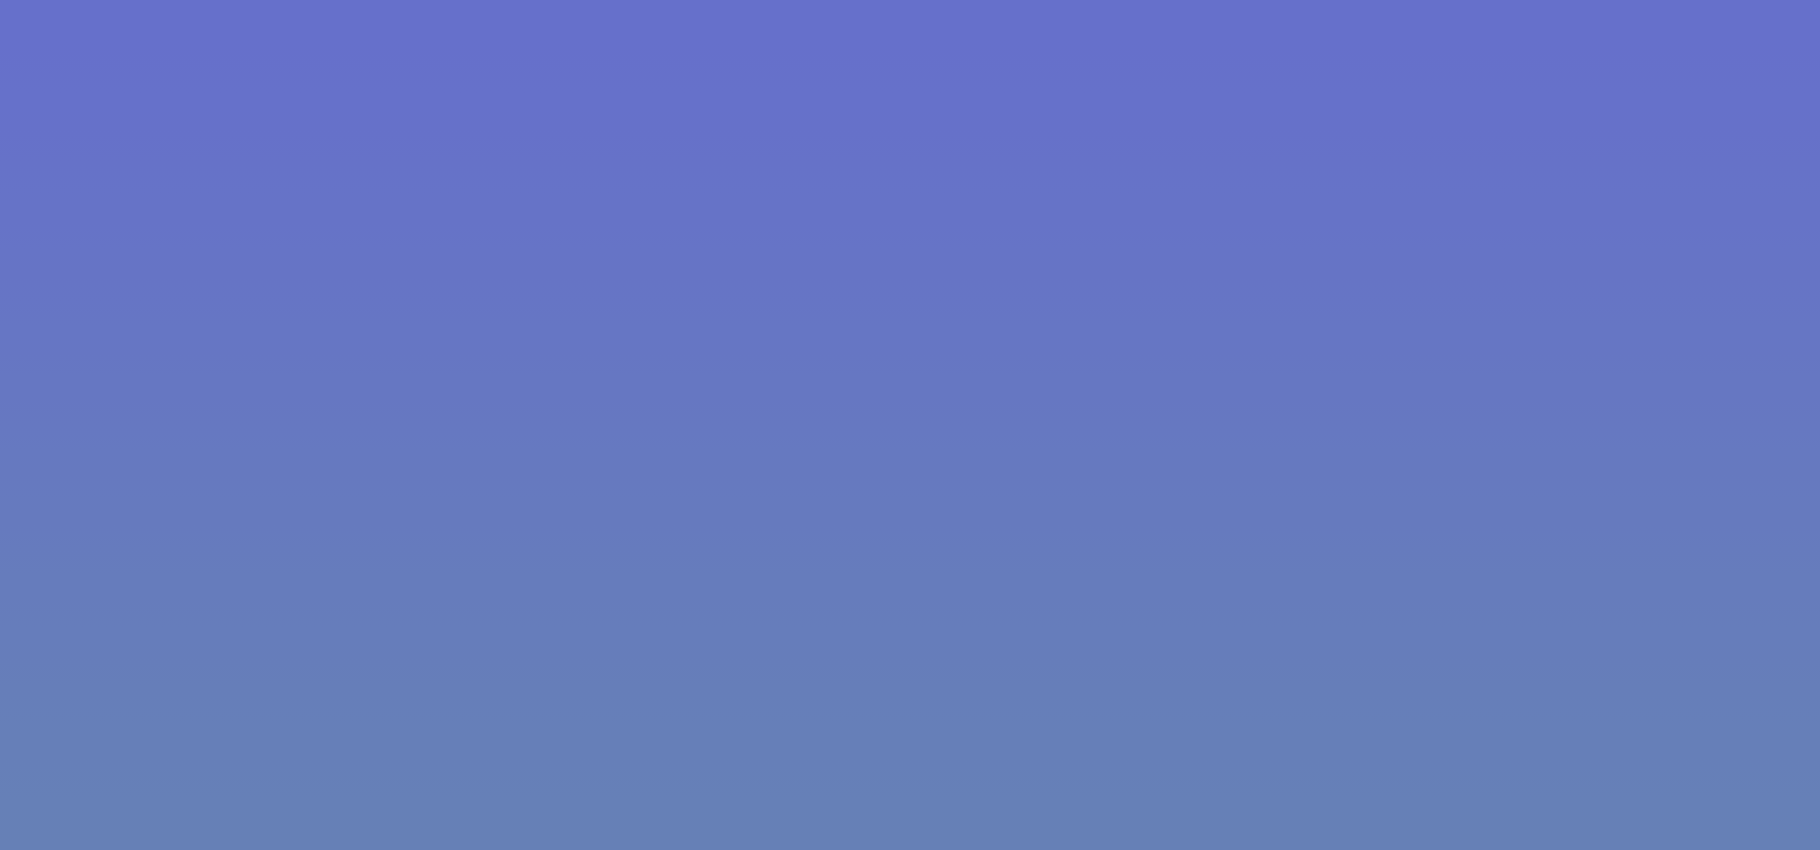
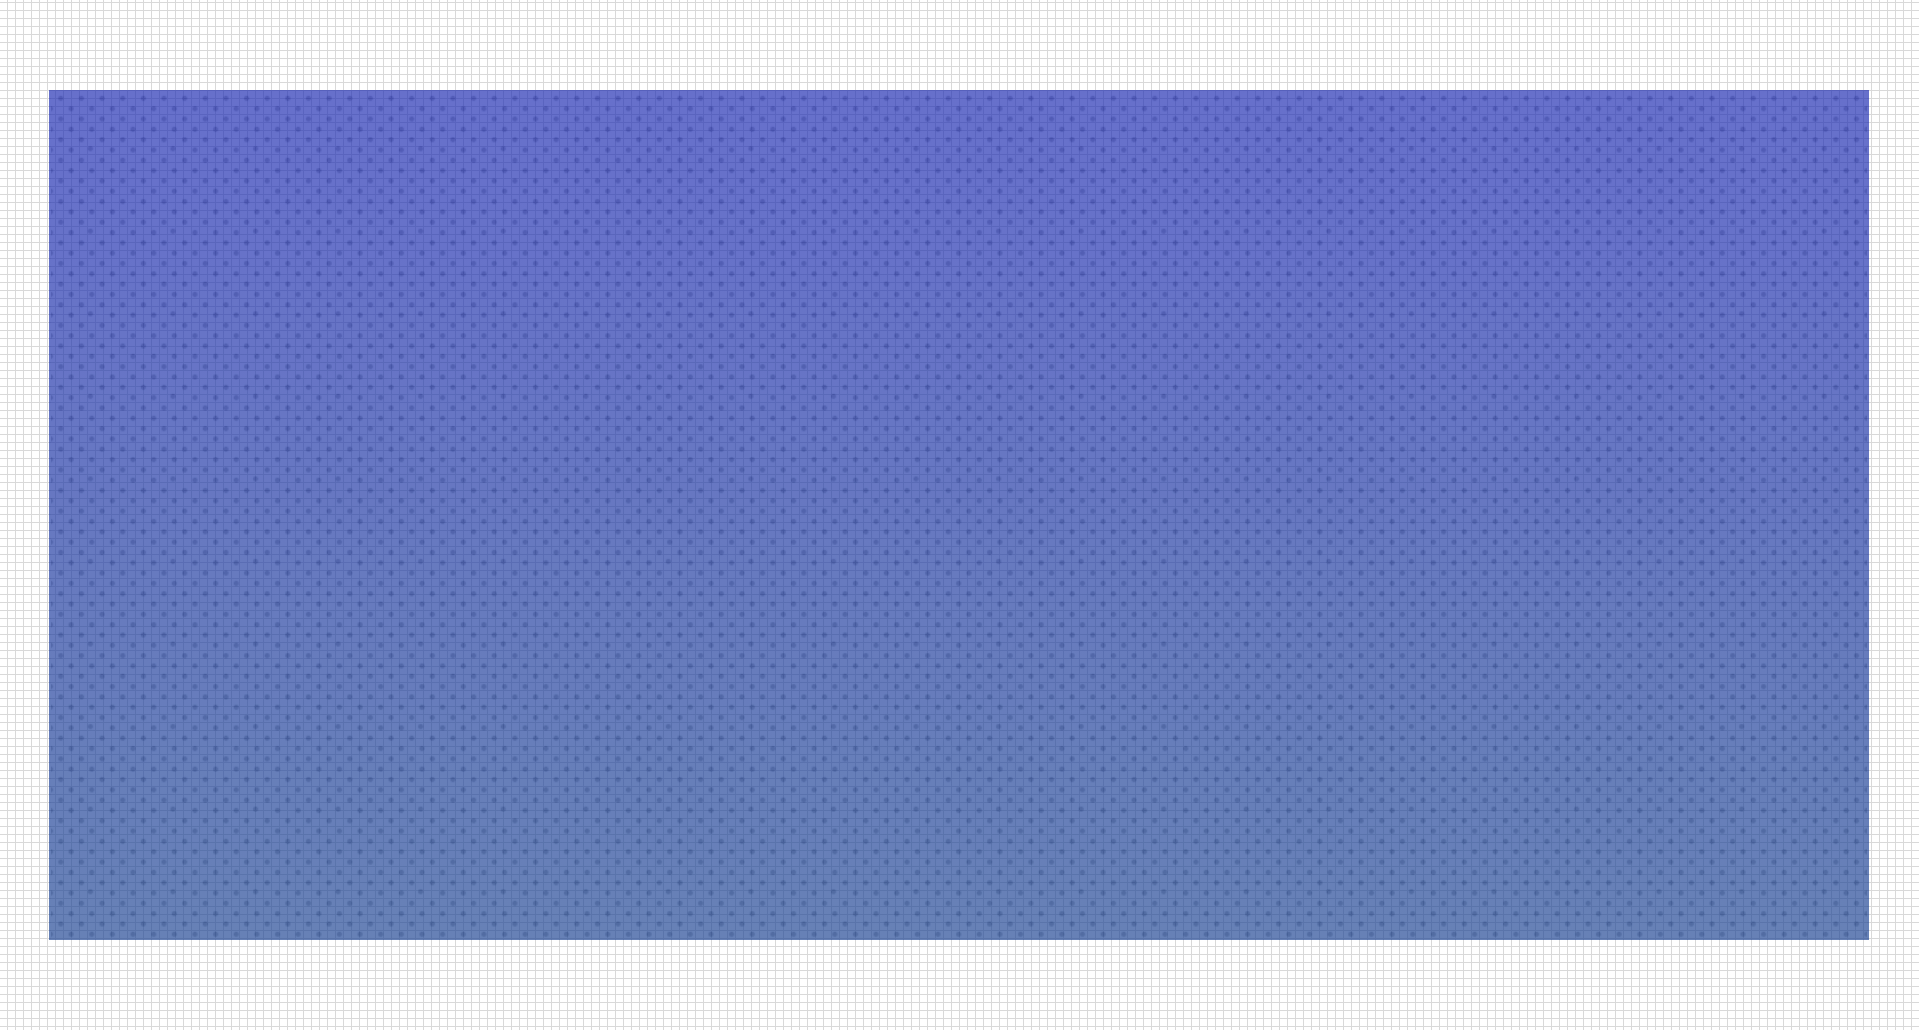
Выполнен третий блок

Changed region(s): [[0.0, 0.0, 1.0, 1.0]]

diff --git a/src/css/style.css b/src/css/style.css
@@ -1,3 +1,3 @@
-*{-webkit-box-sizing:border-box;box-sizing:border-box;margin:0;padding:0}html{font-family:"Open Sans",sans-serif;font-family:"Roboto",sans-serif}.container{position:relative;width:1844px;margin:0 auto}.header{height:135px;background-color:#e9e9e9;padding:31px 0}.header-wrap{display:-webkit-box;display:-ms-flexbox;display:flex;-webkit-box-pack:justify;-ms-flex-pack:justify;justify-content:space-between}.header_navbar_telephone{cursor:pointer}.header_navbar_btn{display:block;margin:0 auto;margin-top:15px;color:#fff;font-size:16px;font-weight:400;width:166px;height:27px;border-radius:10px;border:1px solid #fff;background-color:#343534;cursor:pointer}.menu_link{color:#091606;font-family:"Open Sans";font-size:16px;font-weight:400;text-decoration:none;padding-left:70px}ul{display:-webkit-box;display:-ms-flexbox;display:flex;margin-top:30px;list-style-type:none}.street{display:block;margin-top:30px;color:#000;font-family:"Open Sans";font-size:16px;font-weight:400}html{font-family:"Open Sans",sans-serif;font-family:"Roboto",sans-serif}.container{position:relative;width:1844px;margin:0 auto}.promo{height:941px;background:url("../img/fonimg.png") center center/cover no-repeat;padding:226px 0 399px 0}.promo-wrap{display:-webkit-box;display:-ms-flexbox;display:flex;-ms-flex-wrap:wrap;flex-wrap:wrap;-webkit-box-align:center;-ms-flex-align:center;align-items:center;-webkit-box-pack:center;-ms-flex-pack:center;justify-content:center}.promo_btn{display:block;position:absolute;margin-top:210px;right:52%;color:#fff;font-size:26px;font-weight:400;width:278px;height:50px;border-radius:5px;background-image:-webkit-gradient(linear, left bottom, left top, from(#0839d9), to(#002396));background-image:linear-gradient(to top, #0839d9 0%, #002396 100%);opacity:.7}.title{position:relative;display:block;padding-left:20px;color:#1d1d1d;font-family:Roboto;font-size:68px;font-weight:700;text-align:center;margin-right:330px}.label{display:block;margin-top:39px;color:#212020;font-family:"Open Sans";font-size:42px;font-weight:700;text-align:center;margin-right:330px}
+@import url("https://fonts.googleapis.com/css?family=Montserrat:400,600&display=swap");*{-webkit-box-sizing:border-box;box-sizing:border-box;margin:0;padding:0}html{font-family:"Open Sans",sans-serif;font-family:"Roboto",sans-serif}.container{position:relative;width:1844px;margin:0 auto}.header{height:135px;background-color:#e9e9e9;padding:31px 0}.header-wrap{display:-webkit-box;display:-ms-flexbox;display:flex;-webkit-box-pack:justify;-ms-flex-pack:justify;justify-content:space-between}.header_navbar_telephone{cursor:pointer}.header_navbar_btn{display:block;margin:0 auto;margin-top:15px;color:#fff;font-size:16px;font-weight:400;width:166px;height:27px;border-radius:10px;border:1px solid #fff;background-color:#343534;cursor:pointer}.menu_link{color:#091606;font-family:"Open Sans";font-size:16px;font-weight:400;text-decoration:none;padding-left:70px}ul{display:-webkit-box;display:-ms-flexbox;display:flex;margin-top:30px;list-style-type:none}.street{display:block;margin-top:30px;color:#000;font-family:"Open Sans";font-size:16px;font-weight:400}html{font-family:"Open Sans",sans-serif;font-family:"Roboto",sans-serif}.container{position:relative;width:1844px;margin:0 auto}.promo{height:941px;background:url("../img/fonimg.png") center center/cover no-repeat;padding:226px 0 399px 0}.promo-wrap{display:-webkit-box;display:-ms-flexbox;display:flex;-ms-flex-wrap:wrap;flex-wrap:wrap;-webkit-box-align:center;-ms-flex-align:center;align-items:center;-webkit-box-pack:center;-ms-flex-pack:center;justify-content:center}.promo_btn{display:block;position:absolute;margin-top:210px;right:52%;color:#fff;font-size:26px;font-weight:400;width:278px;height:50px;border-radius:5px;background-image:-webkit-gradient(linear, left bottom, left top, from(#0839d9), to(#002396));background-image:linear-gradient(to top, #0839d9 0%, #002396 100%);opacity:.7}.title{position:relative;display:block;padding-left:20px;color:#1d1d1d;font-family:Roboto;font-size:68px;font-weight:700;text-align:center;margin-right:330px}.label{display:block;margin-top:39px;color:#212020;font-family:"Open Sans";font-size:42px;font-weight:700;text-align:center;margin-right:330px}*{-webkit-box-sizing:border-box;box-sizing:border-box;-webkit-user-select:none;-moz-user-select:none;-ms-user-select:none;user-select:none}body{margin:0;padding:0}.advantages-block{width:100%;height:100vh;background:url("../img/fonbg.png") center center/cover no-repeat}.advantages-block-title{width:100%;height:15vh;display:-webkit-box;display:-ms-flexbox;display:flex;-webkit-box-pack:center;-ms-flex-pack:center;justify-content:center;-webkit-box-align:center;-ms-flex-align:center;align-items:center;color:#091606;font-family:Roboto;font-size:32px;font-weight:700;padding-top:100px}span{color:#091606;font-family:"Open Sans";font-size:26px;font-weight:700}.advantages-block-content{width:100%;height:85vh;display:-webkit-box;display:-ms-flexbox;display:flex;-ms-flex-wrap:wrap;flex-wrap:wrap}.advantage{width:calc(100% / 3);height:50%;display:-webkit-box;display:-ms-flexbox;display:flex;-webkit-box-orient:vertical;-webkit-box-direction:normal;-ms-flex-direction:column;flex-direction:column;-webkit-box-pack:center;-ms-flex-pack:center;justify-content:center;-webkit-box-align:center;-ms-flex-align:center;align-items:center}.icon{width:120px;height:110px;display:-webkit-box;display:-ms-flexbox;display:flex;-webkit-box-pack:center;-ms-flex-pack:center;justify-content:center;-webkit-box-align:center;-ms-flex-align:center;align-items:center;border-radius:25%;margin-bottom:50px;-webkit-transition:.3s transform ease;transition:.3s transform ease;cursor:pointer}.icon:hover{-webkit-transform:scale(1.2) translateY(-10px);transform:scale(1.2) translateY(-10px)}
 
 /*# sourceMappingURL=style.css.map */

diff --git a/src/index.html b/src/index.html
@@ -37,5 +37,100 @@
             </div>
         </div>
     </section>
+    <section class="advantages-block">
+            <section class="advantages-block-title">
+                <h2>Помогаем в невозможных ситуациях</h2>
+            </section>
+            <section class="advantages-block-content">
+               <section class="advantage">
+                  <div class="icon">
+                     <img src="icons/icons_1.png" alt="1">
+                  </div>
+                  <span>Плохая кредитная история</span>
+               </section>
+               <section class="advantage">
+                  <div class="icon">
+                    <img src="icons/icons_2.png" alt="2">
+                  </div>
+                  <span>Банки отказывают в кредите</span>
+               </section>
+               <section class="advantage">
+                  <div class="icon">
+                    <img src="icons/icons_3.png" alt="3">
+                  </div>
+                  <span>Срочно нужны деньги</span>
+               </section>
+               <section class="advantage">
+                  <div class="icon">
+                    <img src="icons/icons_4.png" alt="4">
+                  </div>
+                  <span>Сложность банковских продуктов</span>
+               </section>
+               <section class="advantage">
+                  <div class="icon">
+                    <img src="icons/icons_5.png" alt="5">
+                  </div>
+                  <span>Отсутствие официального дохода</span>
+               </section>
+               <section class="advantage">
+                  <div class="icon">
+                    <img src="icons/icons_6.png" alt="6">
+                  </div>
+                  <span>Неофициальное трудоустройство</span>
+               </section>
+            </section>
+         </section>
+            <!-- <div class="finish_wrap">
+                <div class="finish_cards">
+                    <div class="card">
+                        <div class="card_top">
+                            <img src="icons/icons_1.png" alt="1">
+                        </div>
+                        <div class="card_bottom">
+                            <p class="card_descr">Плохая кредитная история</p>
+                        </div>
+                    </div>
+                    <div class="card">
+                        <div class="card_top">
+                            <img src="icons/icons_2.png" alt="2">
+                        </div>
+                        <div class="card_bottom">
+                            <p class="card_descr">Банки отказывают в кредите</p>
+                        </div>
+                    </div>
+                    <div class="card">
+                        <div class="card_top">
+                            <img src="icons/icons_3.png" alt="3">
+                        </div>
+                        <div class="card_bottom">
+                            <p class="card_descr">Срочно нужны деньги</p>
+                        </div>
+                    </div>
+                    <div class="card">
+                        <div class="card_top">
+                            <img src="icons/icons_4.png" alt="4">
+                        </div>
+                        <div class="card_bottom">
+                            <p class="card_descr">Сложность банковских продуктов</p>
+                        </div>
+                    </div>
+                    <div class="card">
+                        <div class="card_top">
+                            <img src="icons/icons_5.png" alt="5">
+                        </div>
+                        <div class="card_bottom">
+                            <p class="card_descr">Отсутствие официального дохода</p>
+                        </div>
+                    </div>
+                    <div class="card">
+                        <div class="card_top">
+                            <img src="icons/icons_6.png" alt="6">
+                        </div>
+                        <div class="card_bottom">
+                            <p class="card_descr">Неофициальное трудоустройство</p>
+                        </div>
+                    </div>
+                </div>
+            </div> -->
 </body>
 </html>

diff --git a/src/sass/blocks/_advantages.sass b/src/sass/blocks/_advantages.sass
@@ -1,0 +1,63 @@
+@import url('https://fonts.googleapis.com/css?family=Montserrat:400,600&display=swap')
+
+*
+	box-sizing: border-box
+	user-select: none
+
+body
+	margin: 0
+	padding: 0
+
+.advantages-block
+	width: 100%
+	height: 100vh
+	background: url('../img/fonbg.png') center (center / cover) no-repeat
+
+.advantages-block-title
+	width: 100%
+	height: 15vh
+	display: flex
+	justify-content: center
+	align-items: center
+	color: #091606
+	font-family: Roboto
+	font-size: 32px
+	font-weight: 700
+	padding-top: 100px
+span
+	color: #091606
+	font-family: "Open Sans"
+	font-size: 26px
+	font-weight: 700
+
+.advantages-block-content
+	width: 100%
+	height: 85vh
+	display: flex
+	flex-wrap: wrap
+
+.advantage
+	width: calc(100% / 3)
+	height: 50%
+	display: flex
+	flex-direction: column
+	justify-content: center
+	align-items: center
+// span
+// 	font-family: 'Montserrat', sans-serif
+.icon
+	width: 120px
+	height: 110px
+	display: flex
+	justify-content: center
+	align-items: center
+	border-radius: 25%
+	margin-bottom: 50px
+	transition: 0.3s transform ease
+	cursor: pointer
+	&:hover
+		transform: scale(1.2) translateY(-10px)
+	// i
+	//   display: block
+	//   font-size: 40px
+	//   color: rgba(0, 0, 0, 0.65)

diff --git a/src/sass/style.sass b/src/sass/style.sass
@@ -5,3 +5,4 @@
 	
 @import "blocks/header"
 @import "blocks/promo"
+@import "blocks/advantages"
